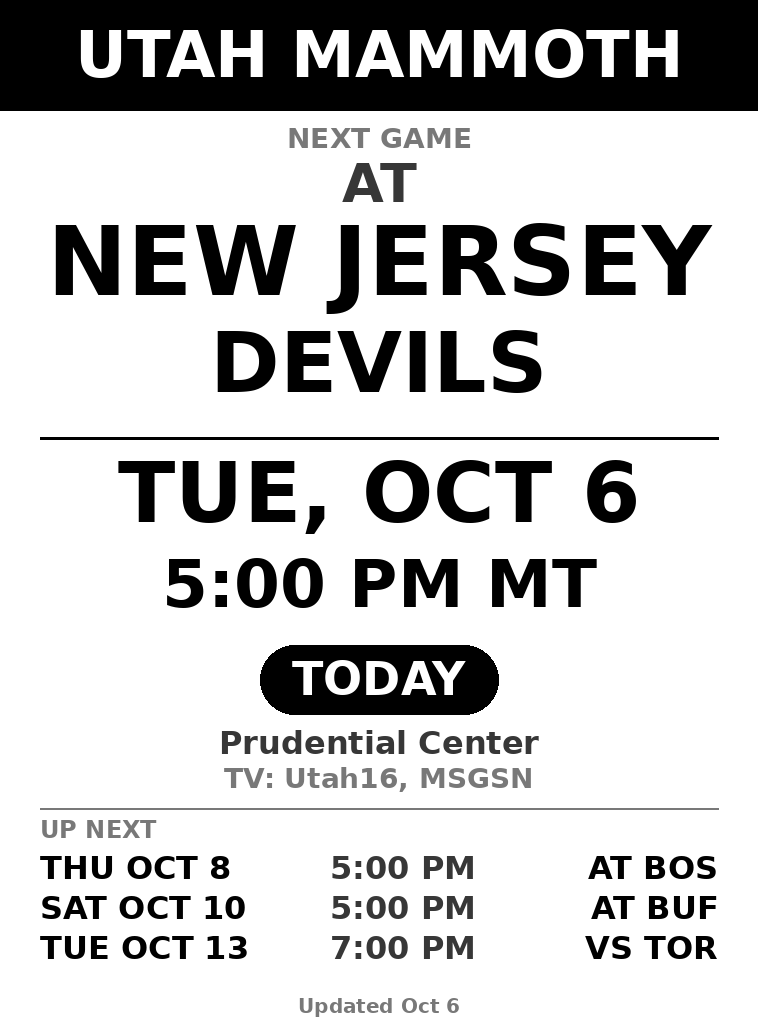
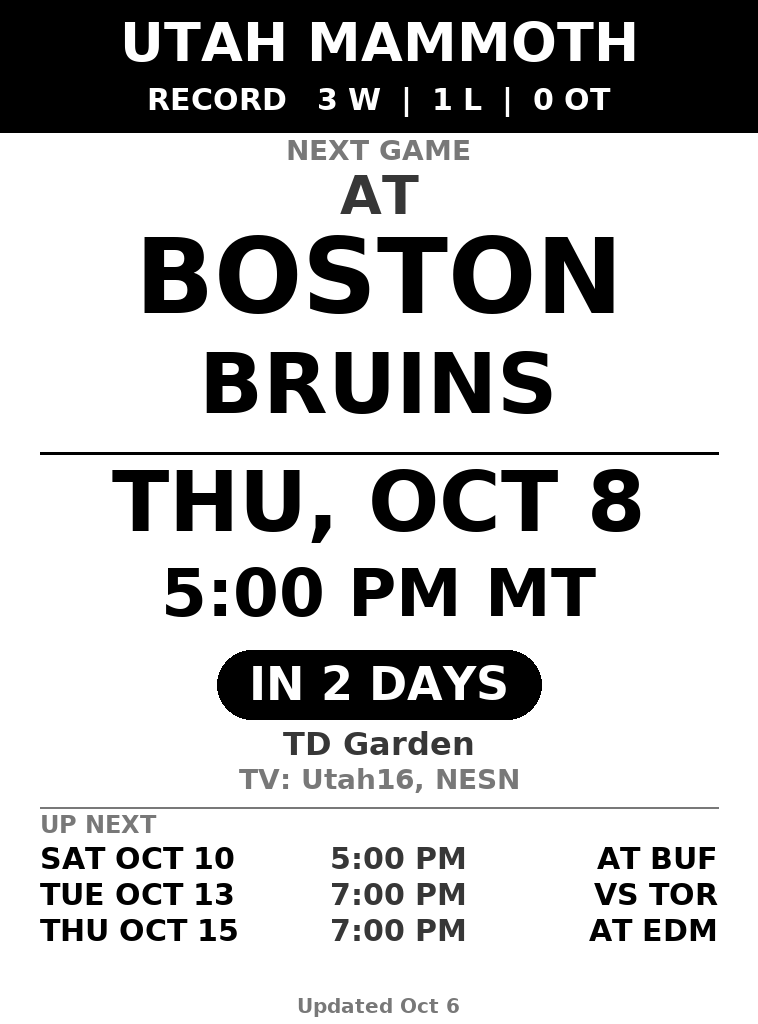
Show season record on Kindle display

diff --git a/mammoth_screen.py b/mammoth_screen.py
@@ -27,6 +27,8 @@ LOCAL_TZ = ZoneInfo("America/Denver")
 SCHEDULE_URL = f"https://api-web.nhle.com/v1/club-schedule-season/{TEAM}/now"
 UPCOMING_STATES = {"FUT", "PRE", "LIVE", "CRIT"}
 LIVE_STATES = {"LIVE", "CRIT"}
+COMPLETED_STATES = {"OFF", "FINAL"}
+REGULAR_SEASON_GAME_TYPE = 2
 
 BLACK, DARK, MID, WHITE = 0, 55, 120, 255
 
@@ -88,6 +90,32 @@ def upcoming_games(games, now):
     return out
 
 
+def season_record(games, now):
+    """Return Utah's regular-season record as (wins, losses, OT losses)."""
+    wins = losses = ot_losses = 0
+    for game in games:
+        if game.get("gameType") != REGULAR_SEASON_GAME_TYPE:
+            continue
+        if game.get("gameState") not in COMPLETED_STATES:
+            continue
+        if start_utc(game) > now:
+            continue
+
+        away = game.get("awayTeam", {})
+        home = game.get("homeTeam", {})
+        utah, opponent = (away, home) if away.get("abbrev") == TEAM else (home, away)
+        if "score" not in utah or "score" not in opponent:
+            continue
+
+        if utah["score"] > opponent["score"]:
+            wins += 1
+        elif game.get("gameOutcome", {}).get("lastPeriodType") in {"OT", "SO"}:
+            ot_losses += 1
+        else:
+            losses += 1
+    return wins, losses, ot_losses
+
+
 def side_and_opponent(game):
     """Return ('AT' or 'VS', opponent team dict) from Utah's point of view."""
     if game["awayTeam"]["abbrev"] == TEAM:
@@ -142,7 +170,7 @@ def centered(draw, width, y, text, size, fill, max_w):
     return y + int(font.size * 1.12)
 
 
-def render(games, now_utc, size):
+def render(games, record, now_utc, size):
     width, height = size
     pad = 40
     inner = width - 2 * pad
@@ -150,10 +178,14 @@ def render(games, now_utc, size):
     d = ImageDraw.Draw(img)
     now_local = now_utc.astimezone(LOCAL_TZ)
 
-    # header band
-    d.rectangle((0, 0, width, 110), fill=BLACK)
-    header_font = fit_font(d, "UTAH MAMMOTH", inner, 64)
-    d.text((width / 2, 55), "UTAH MAMMOTH", font=header_font, fill=WHITE, anchor="mm")
+    # Header band: team identity plus the conventional NHL W-L-OT record.
+    d.rectangle((0, 0, width, 132), fill=BLACK)
+    header_font = fit_font(d, "UTAH MAMMOTH", inner, 54)
+    d.text((width / 2, 42), "UTAH MAMMOTH", font=header_font, fill=WHITE, anchor="mm")
+    wins, losses, ot_losses = record
+    record_text = f"RECORD   {wins} W  |  {losses} L  |  {ot_losses} OT"
+    record_font = fit_font(d, record_text, inner, 30)
+    d.text((width / 2, 100), record_text, font=record_font, fill=WHITE, anchor="mm")
 
     footer = f"Updated {now_local:%b} {now_local.day}"
 
@@ -168,15 +200,15 @@ def render(games, now_utc, size):
     prefix, opp = side_and_opponent(game)
     live = game.get("gameState") in LIVE_STATES
 
-    y = 128
+    y = 140
     y = centered(d, width, y, "NEXT GAME", 28, MID, inner)
     y = centered(d, width, y + 4, prefix, 54, DARK, inner)
     y = centered(d, width, y, opp["placeName"]["default"].upper(), 104, BLACK, inner)
     y = centered(d, width, y, opp["commonName"]["default"].upper(), 84, BLACK, inner)
 
-    y += 14
+    y += 8
     d.line((pad, y, width - pad, y), fill=BLACK, width=3)
-    y += 22
+    y += 16
 
     y = centered(d, width, y, fmt_date(start_local), 84, BLACK, inner)
     y = centered(d, width, y + 4, f"{fmt_time(start_local)} MT", 66, BLACK, inner)
@@ -187,10 +219,10 @@ def render(games, now_utc, size):
     text_w = d.textlength(chip_text, font=chip_font)
     chip_h = int(chip_font.size * 1.5)
     x0 = (width - text_w) / 2 - 32
-    y += 14
+    y += 10
     d.rounded_rectangle((x0, y, width - x0, y + chip_h), radius=chip_h // 2, fill=BLACK)
     d.text((width / 2, y + chip_h / 2), chip_text, font=chip_font, fill=WHITE, anchor="mm")
-    y += chip_h + 16
+    y += chip_h + 12
 
     venue = game.get("venue", {}).get("default", "")
     if venue:
@@ -201,12 +233,12 @@ def render(games, now_utc, size):
 
     # up next list
     if rest:
-        y += 10
+        y += 8
         d.line((pad, y, width - pad, y), fill=MID, width=2)
-        y += 12
+        y += 8
         d.text((pad, y), "UP NEXT", font=load_font(24), fill=MID, anchor="lt")
-        y += 36
-        small = load_font(32)
+        y += 32
+        small = load_font(30)
         for g in rest:
             g_local = start_utc(g).astimezone(LOCAL_TZ)
             g_prefix, g_opp = side_and_opponent(g)
@@ -219,7 +251,7 @@ def render(games, now_utc, size):
                 , fill=BLACK
                 , anchor="rt"
             )
-            y += 40
+            y += 36
 
     d.text((width / 2, height - 18), footer, font=load_font(20), fill=MID, anchor="mm")
     return img
@@ -247,11 +279,16 @@ def main():
         print(f"Could not load schedule: {exc}", file=sys.stderr)
         return 1
 
+    record = season_record(games, now)
     upcoming = upcoming_games(games, now)
-    img = render(upcoming, now, (width, height))
+    img = render(upcoming, record, now, (width, height))
     img.save(args.out, format="PNG")
     nxt = upcoming[0]["startTimeUTC"] if upcoming else "none"
-    print(f"Wrote {args.out} ({width}x{height}); next game start (UTC): {nxt}")
+    print(
+        f"Wrote {args.out} ({width}x{height}); "
+        f"record: {record[0]}-{record[1]}-{record[2]}; "
+        f"next game start (UTC): {nxt}"
+    )
     return 0
 
 
